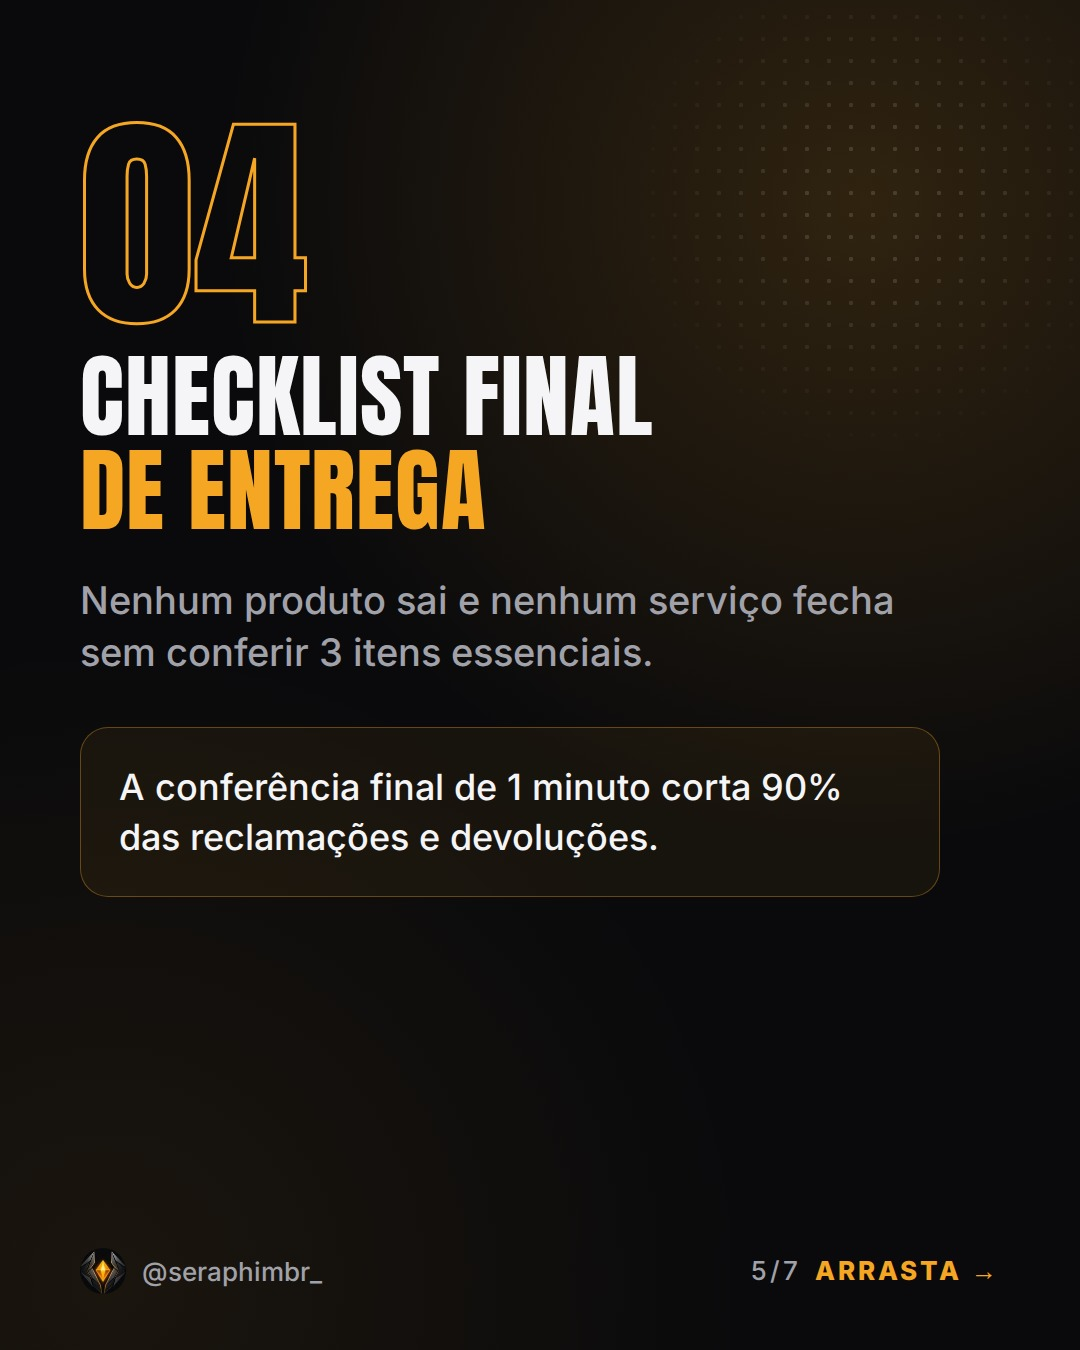
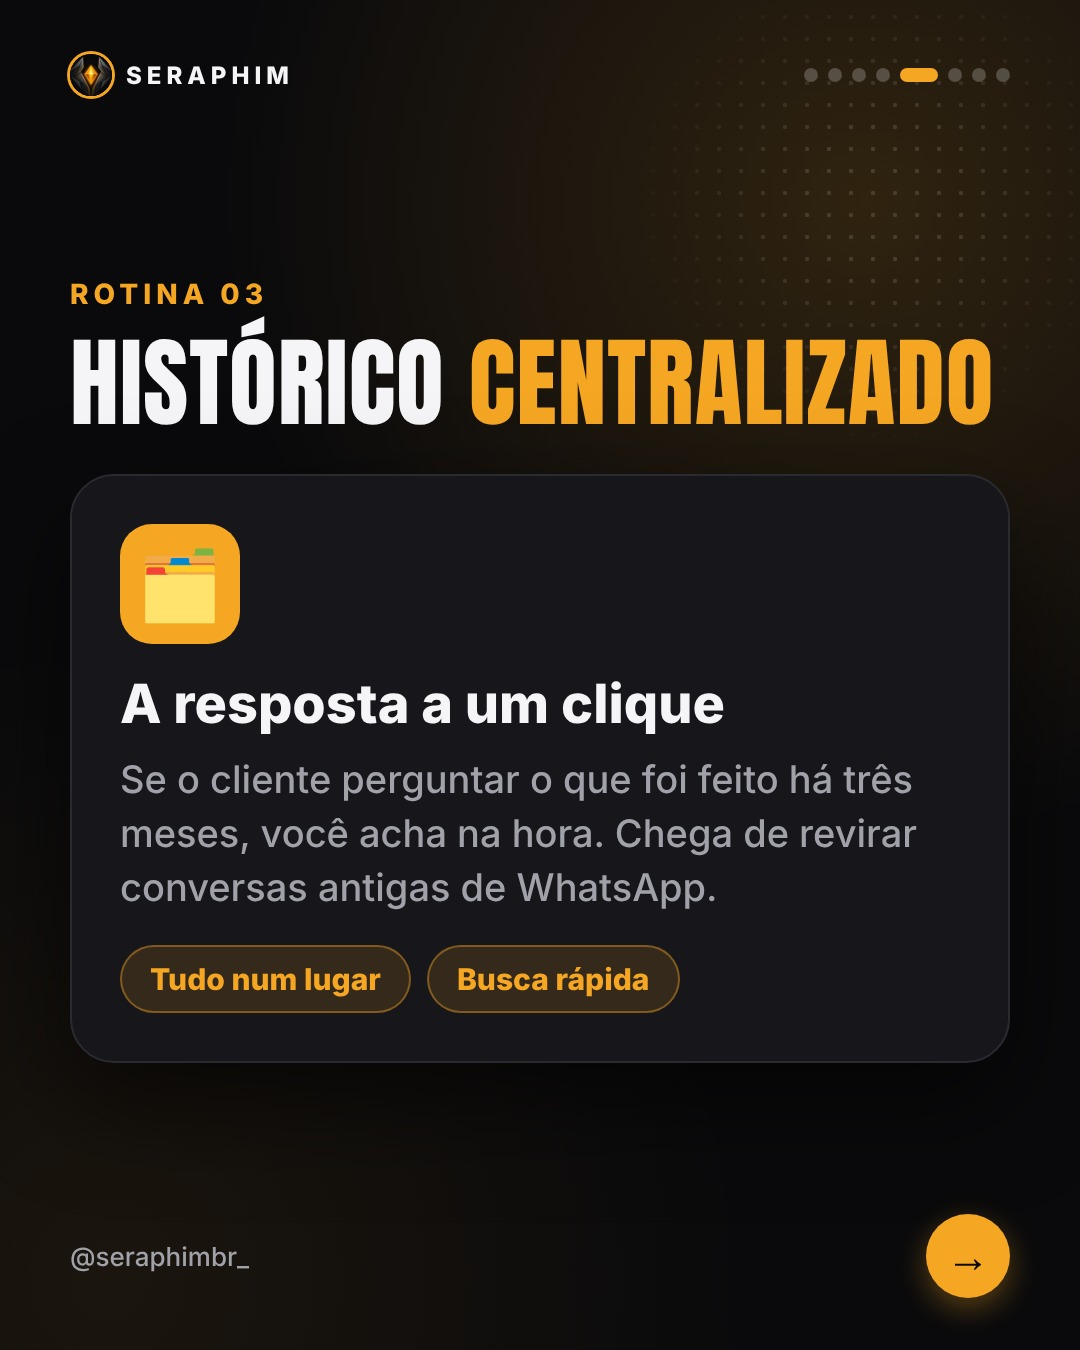
Carrosséis em código nível Blue Ocean/Gene (9 layouts), sem Canva; fila 16 e 17/10 refeita
Claude-Session: https://claude.ai/code/session_01F7BzuknXBX79z2GWgDicT3

diff --git a/scripts/carrossel.py b/scripts/carrossel.py
@@ -128,14 +128,145 @@ def slide_capa_foto(s, i, n, arroba):
     img = s.get("imagem")
     fundo = f'<div class="foto" style="background-image:url({img})"></div>' if img else \
         f'<div class="bg"></div><img class="seragrande" src="{SERA}/{s.get("sera", "confiante")}.png">'
-    return f"""<html><head><meta charset="utf-8"><style>{CSS}{CSS_EXTRA}</style></head>
-<body>{fundo}<div class="selo">{arroba}</div><div class="cont">{i}/{n}</div>
-<div class="manchete">{fmt(s.get("titulo", ""))}</div>
-<div class="foot" style="justify-content:center"><div class="r"><span class="swipe">ARRASTA →</span></div></div></body></html>"""
+    topo, rod = _chrome(i, n, arroba)
+    rot = f'<div style="position:absolute;left:70px;bottom:{(560 if len(s.get("titulo","")) > 40 else 500)}px;z-index:5"><div class="selon">{s["rotulo"]}</div></div>' if s.get("rotulo") else ""
+    return f"""<html><head><meta charset="utf-8"><style>{CSS}{CSS_EXTRA}{CSS_V2}</style></head>
+<body class="v2">{fundo}{topo}{rot}<div class="manchete" style="text-align:left;font-size:92px;left:70px;right:70px;bottom:170px;z-index:4">{fmt(s.get("titulo", ""))}</div>{rod}</body></html>"""
+
+
+
+# ---------------- layouts "nível Blue Ocean / Gene" (15/10/2026) ----------------
+CSS_V2 = f"""
+.v2 .wrap,.v2 .foot,.v2 .tag{{display:none}}
+.v2 .topo{{position:absolute;left:70px;right:70px;top:54px;display:flex;align-items:center;justify-content:space-between;z-index:5}}
+.v2 .marca{{display:flex;align-items:center;gap:14px;font:800 24px Inter;letter-spacing:5px;color:#F5F5F7}}
+.v2 .marca img{{width:42px;height:42px;border-radius:50%;box-shadow:0 0 0 3px #F5A623}}
+.v2 .dots2{{display:flex;gap:10px}} .v2 .dots2 i{{width:14px;height:14px;border-radius:50%;background:rgba(255,255,255,.22)}}
+.v2 .dots2 i.on{{background:#F5A623;width:38px;border-radius:8px}}
+.v2 .rodape{{position:absolute;left:70px;right:70px;bottom:52px;display:flex;align-items:center;justify-content:space-between;font:500 26px Inter;color:#A1A1AA;z-index:5}}
+.v2 .seta{{width:84px;height:84px;border-radius:50%;background:#F5A623;color:#0A0A0C;display:flex;align-items:center;justify-content:center;font:800 44px Inter;box-shadow:0 10px 30px rgba(245,166,35,.35)}}
+.v2.light{{background:#F4F1EA;color:#0A0A0C}} .v2.light .marca{{color:#0A0A0C}} .v2.light .rodape{{color:#55555c}}
+.v2.light .dots2 i{{background:rgba(0,0,0,.18)}} .v2.light .bg{{background:radial-gradient(circle at 85% 10%,rgba(245,166,35,.22),transparent 45%)}} .v2.light .dots{{opacity:.25}}
+.v2 .corpo{{position:absolute;left:70px;right:70px;top:170px;z-index:4}}
+.v2 .corpo.c{{top:140px;bottom:150px;display:flex;flex-direction:column;justify-content:center}}
+.v2 .rot{{font:800 28px Inter;letter-spacing:5px;color:#F5A623;text-transform:uppercase;margin-bottom:22px}}
+.v2.light .rot{{color:#B86E00}}
+.v2 h2{{font-family:Anton;font-weight:400;text-transform:uppercase;font-size:98px;line-height:1.03;letter-spacing:1px}}
+.v2 h2 .gold{{color:#F5A623}} .v2.light h2 .gold{{color:#B86E00}}
+.v2 .sub{{font:500 38px/1.4 Inter;color:#A1A1AA;margin-top:26px;max-width:900px}} .v2.light .sub{{color:#4a4a52}} .v2 .sub b{{color:#fff}} .v2.light .sub b{{color:#0A0A0C}}
+/* pílulas */
+.pil{{display:flex;align-items:center;gap:26px;background:#15151a;border:2px solid rgba(245,166,35,.35);border-radius:80px;padding:28px 44px 28px 28px;margin-top:28px;box-shadow:0 18px 50px rgba(0,0,0,.45);font:800 44px/1.2 Inter}}
+.pil .n{{flex:0 0 96px;height:96px;border-radius:50%;background:#F5A623;color:#0A0A0C;display:flex;align-items:center;justify-content:center;font:400 46px Anton}}
+.light .pil{{background:#fff;border-color:rgba(10,10,12,.12);box-shadow:0 18px 50px rgba(0,0,0,.12)}}
+/* card de produto */
+.cardp{{background:#16161b;border:2px solid #2a2a31;border-radius:44px;padding:48px;margin-top:40px;box-shadow:0 40px 100px rgba(0,0,0,.55)}}
+.light .cardp{{background:#fff;border-color:#e4e0d6;box-shadow:0 30px 80px rgba(0,0,0,.14)}}
+.cardp .ic{{width:120px;height:120px;border-radius:32px;background:#F5A623;display:flex;align-items:center;justify-content:center;font-size:68px;margin-bottom:30px}}
+.cardp h3{{font:800 54px/1.12 Inter;margin-bottom:18px}} .cardp p{{font:500 38px/1.42 Inter;color:#A1A1AA;margin:0;max-width:none}} .light .cardp p{{color:#4a4a52}}
+.chips{{display:flex;flex-wrap:wrap;gap:16px;margin-top:30px}} .chips span{{font:800 30px Inter;padding:14px 28px;border-radius:40px;background:rgba(245,166,35,.14);color:#F5A623;border:2px solid rgba(245,166,35,.4)}}
+.light .chips span{{color:#8a5200;background:rgba(245,166,35,.2)}}
+/* celular + whatsapp */
+.cel{{position:absolute;left:50%;transform:translateX(-50%);top:440px;width:640px;height:730px;border-radius:70px 70px 0 0;background:#0b0b0e;border:10px solid #2b2b31;border-bottom:none;overflow:hidden;box-shadow:0 40px 120px rgba(0,0,0,.6)}}
+.cel .cab{{height:110px;background:#1f2c34;display:flex;align-items:center;gap:20px;padding:0 30px;color:#fff;font:800 32px Inter}}
+.cel .cab i{{width:64px;height:64px;border-radius:50%;background:#F5A623;display:inline-block}}
+.cel .chat{{padding:26px 24px;background:#0b141a;height:620px;display:flex;flex-direction:column;gap:18px}}
+.bol{{max-width:78%;padding:18px 24px;border-radius:26px;font:500 33px/1.32 Inter;color:#e9edef}}
+.bol.c{{align-self:flex-start;background:#202c33;border-top-left-radius:6px}} .bol.e{{align-self:flex-end;background:#005c4b;border-top-right-radius:6px}}
+.bol small{{display:block;text-align:right;font-size:22px;color:rgba(255,255,255,.5);margin-top:6px}}
+/* comparação */
+.cmp{{display:flex;gap:26px;margin-top:44px}}
+.cmp .col{{flex:1;border-radius:40px;padding:40px 34px;box-shadow:0 30px 80px rgba(0,0,0,.45)}}
+.cmp .ruim{{background:#1a1114;border:2px solid rgba(229,72,77,.5)}} .cmp .bom{{background:#171309;border:2px solid rgba(245,166,35,.6)}}
+.light .cmp .ruim{{background:#fff1f1}} .light .cmp .bom{{background:#fff7e6}}
+.cmp h4{{font:800 30px Inter;letter-spacing:4px;text-transform:uppercase;margin-bottom:26px}} .cmp .ruim h4{{color:#ff6b6f}} .cmp .bom h4{{color:#F5A623}} .light .cmp .bom h4{{color:#B86E00}}
+.cmp li{{list-style:none;font:500 40px/1.3 Inter;padding:24px 0 24px 62px;position:relative;border-top:1px solid rgba(255,255,255,.1)}} .light .cmp li{{border-color:rgba(0,0,0,.1)}}
+.cmp li:first-of-type{{border-top:none}}
+.cmp .ruim li:before{{content:"✕";position:absolute;left:0;color:#ff6b6f;font-weight:800}} .cmp .bom li:before{{content:"✓";position:absolute;left:0;color:#F5A623;font-weight:800}}
+.light .cmp .bom li:before{{color:#B86E00}}
+/* passos */
+.pas{{position:relative;margin-top:36px;padding-left:130px}}
+.pas:before{{content:"";position:absolute;left:49px;top:30px;bottom:30px;width:6px;background:linear-gradient(#F5A623,rgba(245,166,35,.15));border-radius:4px}}
+.pas .p{{position:relative;margin-bottom:46px;font:500 42px/1.3 Inter}} .pas .p b{{display:block;font:800 54px/1.15 Inter;margin-bottom:6px}}
+.pas .p i{{position:absolute;left:-130px;top:-4px;width:104px;height:104px;border-radius:50%;background:#0A0A0C;border:6px solid #F5A623;color:#F5A623;display:flex;align-items:center;justify-content:center;font:400 52px Anton;font-style:normal}}
+.light .pas .p i{{background:#F4F1EA;color:#B86E00;border-color:#B86E00}}
+/* citação */
+.asp{{font:400 520px/0.7 Anton;color:#F5A623;opacity:.9;margin:20px 0 -30px}}
+.cit{{font:800 74px/1.14 Inter;letter-spacing:-1px}} .cit .gold{{color:#F5A623}} .light .cit .gold{{color:#B86E00}}
+/* notícia */
+.selon{{display:inline-block;background:#F5A623;color:#0A0A0C;font:800 30px Inter;letter-spacing:3px;padding:14px 28px;border-radius:12px;text-transform:uppercase}}
+.rec{{position:absolute;left:70px;right:70px;background:#F4F1EA;color:#0A0A0C;border-radius:14px;padding:26px 32px;box-shadow:0 24px 60px rgba(0,0,0,.55);font:800 38px/1.18 Inter}}
+.rec small{{display:block;font:600 24px Inter;color:#6a6a72;letter-spacing:2px;text-transform:uppercase;margin-bottom:10px}}
+/* perfil */
+.perf{{background:#fff;color:#0A0A0C;border-radius:44px;padding:46px;margin-top:44px;box-shadow:0 40px 110px rgba(0,0,0,.55)}}
+.perf .l1{{display:flex;align-items:center;gap:30px}} .perf .av{{width:150px;height:150px;border-radius:50%;box-shadow:0 0 0 6px #F5A623;background:#0A0A0C}}
+.perf .nm{{font:800 44px Inter}} .perf .bio{{font:500 33px/1.35 Inter;color:#3a3a40;margin-top:26px}}
+.perf .lnk{{margin-top:26px;display:inline-block;font:800 36px Inter;color:#0A56D6;background:rgba(10,86,214,.1);padding:14px 26px;border-radius:16px;outline:4px solid #F5A623}}
+.btn{{margin-top:44px;background:#F5A623;color:#0A0A0C;border-radius:80px;text-align:center;font:800 46px Inter;padding:34px;box-shadow:0 20px 60px rgba(245,166,35,.35)}}
+"""
+
+def _chrome(i, n, arroba, light=False, ultimo=False):
+    dots = "".join(f'<i class="{"on" if k == i else ""}"></i>' for k in range(1, n + 1)) if n <= 10 else f"{i}/{n}"
+    topo = f'<div class="topo"><div class="marca"><img src="{ICONE}">SERAPHIM</div><div class="dots2">{dots}</div></div>'
+    rod = f'<div class="rodape"><span>{arroba}</span>' + ('' if ultimo else '<div class="seta">→</div>') + '</div>'
+    return topo, rod
+
+
+def _pag(corpo, i, n, arroba, light=False, extra="", ultimo=False):
+    topo, rod = _chrome(i, n, arroba, light, ultimo)
+    return f"""<html><head><meta charset="utf-8"><style>{CSS}{CSS_EXTRA}{CSS_V2}</style></head>
+<body class="v2{' light' if light else ''}"><div class="bg"></div><div class="dots"></div>{extra}{topo}{corpo}{rod}</body></html>"""
+
+
+def _cab(s):
+    r = f'<div class="rot">{s["rotulo"]}</div>' if s.get("rotulo") else ""
+    return r + f'<h2>{fmt(s.get("titulo", ""))}</h2>' + (f'<div class="sub">{fmt(s["texto"])}</div>' if s.get("texto") else "")
+
+
+def slide_v2(s, i, n, arroba):
+    t = s.get("tipo"); light = s.get("fundo") == "branco"; ult = i == n
+    if t == "pilulas":
+        its = "".join(f'<div class="pil"><div class="n">{k}</div><div>{fmt(x if isinstance(x, str) else x.get("texto", ""))}</div></div>' for k, x in enumerate(s.get("itens", [])[:5], 1))
+        return _pag(f'<div class="corpo c">{_cab(s)}<div style="margin-top:30px">{its}</div></div>', i, n, arroba, light, ultimo=ult)
+    if t == "card":
+        chips = "".join(f"<span>{c}</span>" for c in s.get("chips", [])[:4])
+        c = s.get("card") or s.get("texto", "")
+        return _pag(f'<div class="corpo c">{_cab({"rotulo": s.get("rotulo"), "titulo": s.get("titulo")})}<div class="cardp"><div class="ic">{s.get("icone", "⚙")}</div>'
+                    f'<h3>{fmt(s.get("subtitulo", ""))}</h3><p>{fmt(c)}</p>{("<div class=chips>" + chips + "</div>") if chips else ""}</div></div>', i, n, arroba, light, ultimo=ult)
+    if t == "whatsapp":
+        bs = "".join(f'<div class="bol {"c" if m.get("de", "cliente") == "cliente" else "e"}">{m.get("texto", "")}<small>{m.get("hora", "")}</small></div>' for m in s.get("mensagens", [])[:6])
+        return _pag(f'<div class="corpo">{_cab(s)}</div><div class="cel"><div class="cab"><i></i>{s.get("contato", "Cliente")}</div><div class="chat">{bs}</div></div>', i, n, arroba, light, ultimo=ult)
+    if t == "comparacao":
+        def col(c, cls):
+            return f'<div class="col {cls}"><h4>{c.get("rotulo", "")}</h4><ul style="padding:0;margin:0">' + "".join(f"<li>{fmt(x)}</li>" for x in c.get("itens", [])[:4]) + "</ul></div>"
+        return _pag(f'<div class="corpo c">{_cab({"rotulo": s.get("rotulo"), "titulo": s.get("titulo")})}<div class="cmp">{col(s.get("esquerda", {}), "ruim")}{col(s.get("direita", {}), "bom")}</div>'
+                    f'{("<div class=sub>" + fmt(s["texto"]) + "</div>") if s.get("texto") else ""}</div>', i, n, arroba, light, ultimo=ult)
+    if t == "passos":
+        ps = "".join(f'<div class="p"><i>{k}</i><b>{fmt(x.get("titulo", "") if isinstance(x, dict) else x)}</b>{fmt(x.get("texto", "")) if isinstance(x, dict) else ""}</div>' for k, x in enumerate(s.get("itens", [])[:4], 1))
+        return _pag(f'<div class="corpo c">{_cab({"rotulo": s.get("rotulo"), "titulo": s.get("titulo")})}<div class="pas">{ps}</div></div>', i, n, arroba, light, ultimo=ult)
+    if t == "citacao":
+        return _pag(f'<div class="corpo c"><div class="asp">“</div><div class="cit">{fmt(s.get("titulo", ""))}</div>'
+                    f'{("<div class=sub>" + fmt(s["texto"]) + "</div>") if s.get("texto") else ""}</div>', i, n, arroba, light, ultimo=ult)
+    if t == "perfil_cta":
+        corpo = (f'<div class="corpo c">{_cab({"titulo": s.get("titulo")})}<div class="perf"><div class="l1"><img class="av" src="{ICONE}"><div><div class="nm">{arroba}</div>'
+                 f'<div style="font:500 30px Inter;color:#6a6a72">Seraphim • IA e automação</div></div></div>'
+                 f'<div class="bio">{fmt(s.get("bio", "Tecnologia, IA e automação para pequenas empresas crescerem sem complicação."))}</div>'
+                 f'<div class="lnk">🔗 {s.get("link", "link na bio")}</div></div><div class="btn">{s.get("botao", "Clique no link da bio")}</div>'
+                 f'{("<div class=sub style=text-align:center>" + fmt(s["texto"]) + "</div>") if s.get("texto") else ""}</div>')
+        return _pag(corpo, i, n, arroba, light, ultimo=True)
+    if t == "capa_noticia":
+        rec = ""
+        for k, r in enumerate(s.get("recortes", [])[:3]):
+            rec += f'<div class="rec" style="top:{700 + k * 165}px;transform:rotate({[-2.2, 1.6, -1.2][k]}deg)"><small>{r.get("fonte", "")}</small>{r.get("texto", "")}</div>'
+        selo = f'<div class="selon">{s.get("selo", "ESTA SEMANA")}</div>'
+        return _pag(f'<div class="corpo" style="top:170px">{selo}<h2 style="margin-top:34px;font-size:112px">{fmt(s.get("titulo", ""))}</h2></div>{rec}', i, n, arroba, False, ultimo=False)
+    return None
 
 
 def slide_html(s: dict, i: int, n: int, arroba: str, tema: str = None) -> str:
     tipo = s.get("tipo", "texto")
+    v2 = slide_v2(s, i, n, arroba)
+    if v2:
+        return v2
     if tipo == "capa_foto":
         return slide_capa_foto(s, i, n, arroba)
     if tipo == "simples":
@@ -168,6 +299,25 @@ def slide_html(s: dict, i: int, n: int, arroba: str, tema: str = None) -> str:
 </body></html>"""
 
 
+def _foto_pixabay(busca, destino):
+    import os, urllib.parse, urllib.request
+    chave = os.environ.get("PIXABAY_API_KEY")
+    if not chave or not busca:
+        return None
+    try:
+        url = f"https://pixabay.com/api/?key={chave}&q={urllib.parse.quote(busca[:90])}&image_type=photo&orientation=vertical&safesearch=true&per_page=20&order=popular"
+        hits = json.loads(urllib.request.urlopen(urllib.request.Request(url, headers={"User-Agent": "Mozilla/5.0"}), timeout=60).read()).get("hits", [])
+        import random
+        random.Random(busca).shuffle(hits)
+        for h in hits[:6]:
+            dados = urllib.request.urlopen(urllib.request.Request(h.get("largeImageURL") or h["webformatURL"], headers={"User-Agent": "Mozilla/5.0"}), timeout=90).read()
+            if len(dados) > 30000:
+                destino.write_bytes(dados); return destino
+    except Exception as e:
+        print(f"[aviso] foto do carrossel: {e}")
+    return None
+
+
 async def main(caminho: str, saida_dir: str = None):
     spec = json.loads(Path(caminho).read_text(encoding="utf-8"))
     nome = spec.get("nome", Path(caminho).stem)
@@ -175,6 +325,11 @@ async def main(caminho: str, saida_dir: str = None):
     slides = spec["slides"]
     saida = Path(saida_dir) if saida_dir else RAIZ / "entrega" / "carrosseis" / nome
     saida.mkdir(parents=True, exist_ok=True)
+    for k, sl in enumerate(slides):
+        if sl.get("tipo") == "capa_foto" and sl.get("busca") and not sl.get("imagem"):
+            f = _foto_pixabay(sl["busca"], saida / f"_foto{k}.jpg")
+            if f:
+                sl["imagem"] = f.as_uri()
     async with async_playwright() as p:
         nav = await p.chromium.launch()
         pg = await nav.new_page(viewport={"width": 1080, "height": 1350})
@@ -185,6 +340,8 @@ async def main(caminho: str, saida_dir: str = None):
             await pg.wait_for_timeout(250)
             await pg.screenshot(path=str(saida / f"slide-{i:02d}.png"))
         tmp.unlink()
+        for f in saida.glob('_foto*.jpg'):
+            f.unlink()
         await nav.close()
     if spec.get("legenda"):
         (saida / "legenda.txt").write_text(spec["legenda"], encoding="utf-8")

diff --git a/scripts/planejar.py b/scripts/planejar.py
@@ -261,7 +261,7 @@ REGRAS DE QUALIDADE (obrigatórias):
 {REGRAS_FUNIL}
 FICHA DO AUTOFLOW:
 {FICHA_AUTOFLOW}
-- Carrossel (estilo de carrossel viral): capa com manchete forte = número + ferramenta/assunto conhecido + promessa ou segredo (ex.: "5 comandos pra fazer o ChatGPT trabalhar na sua empresa", "3 erros que fazem seu cliente sumir"); a capa promete exatamente a quantidade de itens do miolo; miolo com 1 item por slide (título curto + explicação ou comando pronto pra copiar); último slide = chamada (seguir/salvar). Carrossel: 6 a 9 slides; tipos capa, numero, texto (pode ter "card"); primeiro e último são "capa"; títulos usam | para quebrar linha.
+- Carrossel (estilo de carrossel viral): capa com manchete forte = número + ferramenta/assunto conhecido + promessa ou segredo (ex.: "5 comandos pra fazer o ChatGPT trabalhar na sua empresa", "3 erros que fazem seu cliente sumir"); a capa promete exatamente a quantidade de itens do miolo; miolo com 1 item por slide (título curto + explicação ou comando pronto pra copiar); último slide = chamada (seguir/salvar). Carrossel: 7 a 9 slides, nível Blue Ocean/Gene, com VARIEDADE de layouts (nunca só "numero" em sequência). Tipos: capa_foto {{rotulo,titulo,busca(inglês, p/ foto real vertical) ou sera}}, capa_noticia {{selo,titulo,recortes:[{{fonte,texto}}x3]}} (só com notícia real e fonte), pilulas {{rotulo,titulo,texto,itens:[3-5 textos curtos]}}, card {{rotulo,titulo,icone(emoji),subtitulo,card,chips:[2-4]}}, whatsapp {{rotulo,titulo,contato,mensagens:[{{de:cliente|empresa,texto,hora}}x2-5]}}, comparacao {{rotulo,titulo,esquerda:{{rotulo,itens[3]}},direita:{{rotulo,itens[3]}}}}, passos {{rotulo,titulo,itens:[{{titulo,texto}}x3-4]}}, citacao {{titulo,texto}}, numero/texto/capa (clássicos), perfil_cta {{titulo,texto}} (SEMPRE o último). Primeiro slide: capa_foto, capa_noticia ou capa. Use "fundo":"branco" em 2 slides do miolo (ritmo escuro→claro). Misture pelo menos 4 tipos diferentes. Nunca invente número/estatística; títulos usam | para quebrar linha e *destaque* em dourado.
 - Legenda (Instagram): ÚNICA para cada post, ligada ao gancho e ao assunto; 2 a 4 linhas curtas com emoji, uma pergunta que puxa comentário e a chamada do funil; SEM hashtags dentro dela.
 - "legenda_tiktok": legenda própria para o TikTok (mais curta e direta, 1 a 2 linhas, tom de conversa), diferente da do Instagram.
 - "hashtags": 8 a 12 hashtags relevantes para AQUELE post (misture 3 amplas, 5 do nicho/assunto e 2 de público, ex.: #inteligenciaartificial #chatgpt #pequenasempresas #empreendedorismo #automacao), sempre incluindo #seraphimbr; nunca #seraphimpublicador.
@@ -433,13 +433,21 @@ def main():
                          "cenas": [c.get("tipo") for c in v["cenas"]], "buscas": buscas})
             criados += 1
         for hora, c in zip(hc, plano.get("carrosseis", [])):
-            slides = [s for s in c.get("slides", []) if s.get("titulo")]
+            slides = [s for s in c.get("slides", []) if s.get("titulo") or s.get("tipo") == "perfil_cta"]
             if len(slides) < 4:
                 print("[aviso] carrossel descartado: poucos slides"); continue
             for s in slides:
                 if s.get("sera") not in POSES:
                     s.pop("sera", None)
-                s["titulo"] = re.sub(r"\s+([?!.,:;])", r"\1", s["titulo"])
+                s["titulo"] = re.sub(r"\s+([?!.,:;])", r"\1", s.get("titulo", ""))
+                tp = s.get("tipo")
+                falta = {"pilulas": not s.get("itens"), "whatsapp": not s.get("mensagens"), "passos": not s.get("itens"),
+                         "comparacao": not (s.get("esquerda") and s.get("direita")), "capa_noticia": not s.get("recortes"),
+                         "card": not (s.get("card") or s.get("texto"))}.get(tp)
+                if falta:
+                    s["tipo"] = "texto"
+            if slides[-1].get("tipo") not in ("perfil_cta", "capa"):
+                slides.append({"tipo": "perfil_cta", "titulo": "Gostou? *Salva* e segue", "texto": "Siga a @seraphimbr_ para mais."})
             nome = slug(c.get("nome") or c.get("titulo", "carrossel"))
             while nome in nomes:
                 nome += "-2"
@@ -458,11 +466,6 @@ def main():
             (destino / "item.json").write_text(json.dumps({
                 "tipo": "carrossel", "legenda": c.get("legenda", "").strip() + "\n\n👉 Seraphim, link na bio.\n\n" + HT,
                 "quando": f"{dia}T{hora}:00-03:00"}, ensure_ascii=False, indent=2), encoding="utf-8")
-            # versão Canva (feita pela sessão agendada; esta versão em código fica de reserva)
-            (RAIZ / "canva" / "pendentes").mkdir(parents=True, exist_ok=True)
-            (RAIZ / "canva" / "pendentes" / f"{destino.name}.json").write_text(json.dumps({
-                "destino": str(destino.relative_to(RAIZ)), "titulo": c.get("titulo", nome), "formato": c.get("formato", ""),
-                "slides": slides, "legenda": c.get("legenda", "")}, ensure_ascii=False, indent=1), encoding="utf-8")
             hist.append({"nome": nome, "titulo": c.get("titulo", nome), "formato": c.get("formato", ""), "dia": str(dia), "tipo": "carrossel", "tema": tema})
             criados += 1
         HIST.write_text(json.dumps(hist, ensure_ascii=False, indent=1), encoding="utf-8")

diff --git a/estilos/carrosseis.md b/estilos/carrosseis.md
@@ -54,3 +54,10 @@ Inspiração total, com liberdade para ir além. Mantemos a identidade Seraphim 
 - 2026-10-13: Blue Ocean vira referência principal de carrosséis (nível de design e séries fixas).
 - 2026-10-10: sistema de 9 temas visuais foi REJEITADO pelo Pabllo e removido.
 - 2026-10-09: linha editorial ampliada para tecnologia, sistemas, automação e IA (não só oficina).
+
+
+## ATUALIZAÇÃO 15/10/2026 — carrossel 100% em código (Canva desligado: sem créditos e gastava o limite do Claude)
+- O renderizador (scripts/carrossel.py) agora tem os layouts Blue Ocean/Gene: capa_foto (foto real Pixabay ou Sera + manchete no terço de baixo),
+  capa_noticia (selo de data + recortes com fonte), pilulas (lista numerada), card (cartão de produto com ícone e chips), whatsapp (celular com conversa),
+  comparacao (✕ x ✓), passos (linha do tempo 01-04), citacao, perfil_cta (mockup do perfil + link na bio). Topo com marca e bolinhas de progresso, seta redonda dourada.
+- Regras: misturar pelo menos 4 tipos; 2 slides brancos no miolo; nunca só "numero" em sequência; último = perfil_cta; nunca inventar número.
